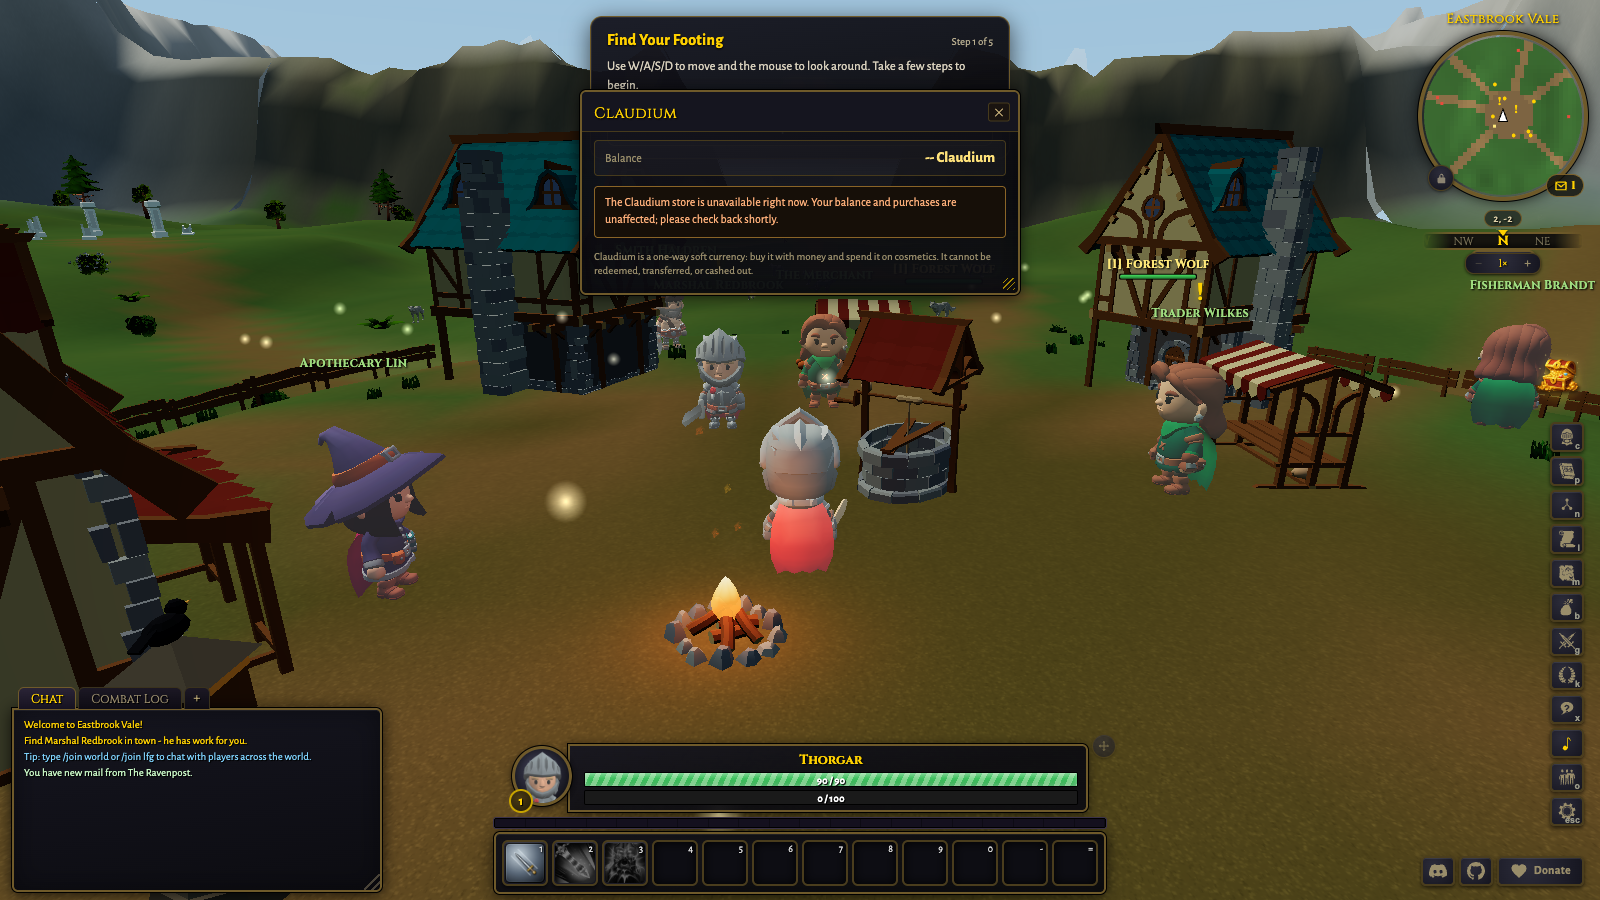
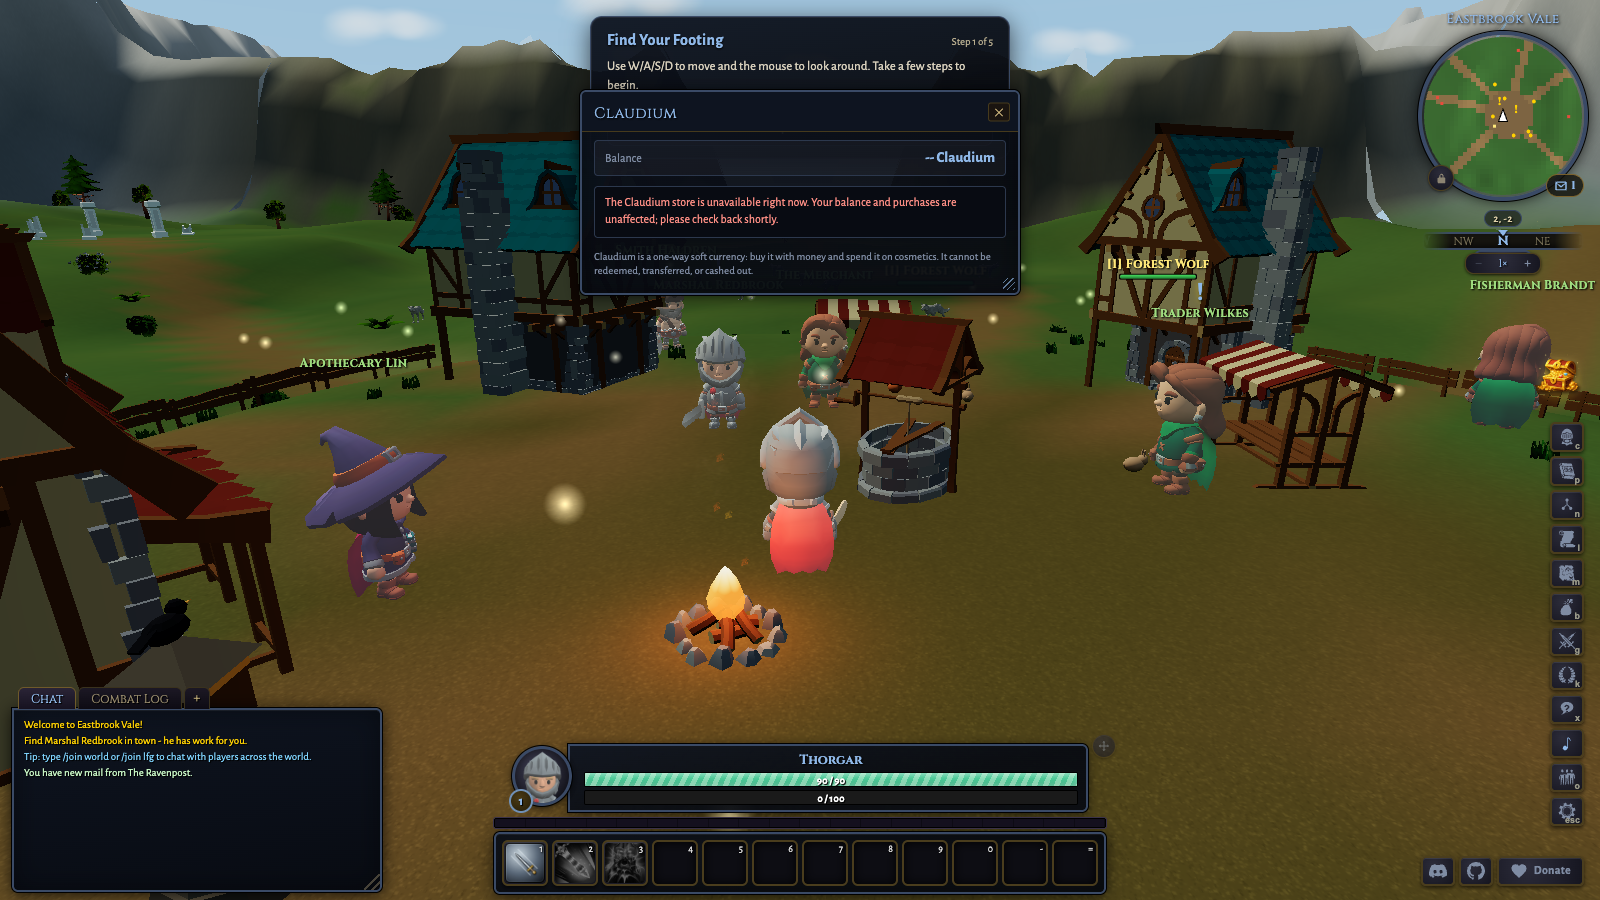
test(ui): claudium sweep shots + view tests

diff --git a/src/styles/components.css b/src/styles/components.css
@@ -1956,7 +1956,7 @@
     gap: 8px;
     padding: 8px 10px;
     border: 1px solid var(--color-border-default);
-    background: var(--color-bg-input);
+    background: var(--color-surface-inset);
     border-radius: var(--radius-sm);
   }
   .cl-balance-label {
@@ -2003,7 +2003,7 @@
     padding: 8px;
     border: 1px solid var(--color-border-default);
     border-radius: var(--radius-sm);
-    background: var(--color-bg-input);
+    background: var(--color-surface-inset);
     color: var(--color-text-light);
     font-size: 13px;
     cursor: var(--cursor-pointer);
@@ -2045,7 +2045,7 @@
     padding: 8px 10px;
     border: 1px solid var(--color-border-default);
     border-radius: var(--radius-sm);
-    background: var(--color-bg-input);
+    background: var(--color-surface-inset);
     color: var(--color-text-light);
     font-size: 13px;
     text-align: left;
@@ -2074,7 +2074,7 @@
     padding: 8px 10px;
     border: 1px solid var(--color-border-default);
     border-radius: var(--radius-sm);
-    background: var(--color-bg-input);
+    background: var(--color-surface-inset);
   }
   .cl-item-name {
     color: var(--color-text-light);
@@ -2118,7 +2118,7 @@
     padding: 8px;
     border: 1px solid var(--color-border-default);
     border-radius: var(--radius-sm);
-    background: var(--color-bg-input);
+    background: var(--color-surface-inset);
     color: var(--color-text-light);
     font-size: 13px;
     cursor: var(--cursor-pointer);
@@ -2142,7 +2142,7 @@
     padding: 12px;
     border: 1px solid var(--color-border-default);
     border-radius: var(--radius-sm);
-    background: var(--color-bg-input);
+    background: var(--color-surface-inset);
   }
   .cl-pay-amount {
     margin: 0;
@@ -2162,7 +2162,7 @@
     padding: 8px 10px;
     border: 1px solid var(--color-border-default);
     border-radius: var(--radius-sm);
-    background: var(--color-bg-dark);
+    background: var(--color-surface-well);
     color: var(--color-text-light);
     font-size: 12px;
     word-break: break-all;
@@ -2212,7 +2212,7 @@
     padding: 8px 10px;
     border: 1px solid var(--color-border-default);
     border-radius: var(--radius-sm);
-    background: var(--color-bg-dark);
+    background: var(--color-surface-well);
     color: var(--color-text-light);
     font-size: 13px;
   }

diff --git a/src/styles/tokens.css b/src/styles/tokens.css
@@ -82,6 +82,16 @@
        raw hex). Exact pre-existing value. */
     --color-quality-default: #fff;
 
+    /* Theme-adaptive surface overlays (used by the Claudium window and any panel
+       that needs an inset/sunken surface that reads on BOTH the dark presets and
+       the light Parchment preset). They are TRANSLUCENT on purpose: a faint white
+       lifts a surface off any panel colour, a faint black sinks a field well below
+       it, so the same token works on a dark OR a light panel without the theme
+       system having to recompute a per-preset opaque colour. Mirrors the repo-wide
+       #ffffffNN overlay convention, named so a painter carries no raw rgba. */
+    --color-surface-inset: rgba(255, 255, 255, 0.04);
+    --color-surface-well: rgba(0, 0, 0, 0.22);
+
     /* Empty paperdoll slot greys (char_window.ts uses these so the painter carries
        no raw hex): the muted "Empty" label and the dimmed placeholder-icon border.
        Exact pre-existing values. */

diff --git a/DESIGN_SWEEP.md b/DESIGN_SWEEP.md
@@ -20,23 +20,23 @@ severity: breaks-trust > inconsistent > polish. UI is the in-game window
 
 | Surface | Severity | Note |
 |---|---|---|
-| Gift card BUY / gift flow (denomination, recipient, message, scheduled delivery) | breaks-scope | the game UI only REDEEMS gift cards; there is no buy-a-gift flow. Issue + delivery live service-side only. |
-| Transaction history view | inconsistent | the SDK has history(); no UI renders it. |
-| Occasion gift-card artwork (birthday/holiday/generic) | polish | service delivery.ts renders ONE generic styled card; no occasion variants. |
-| Pay-address QR | inconsistent | native pay panel shows the address as text only; a QR would help wallet scanning. |
+| Gift card BUY / gift flow (denomination, recipient, message, scheduled delivery) | breaks-scope | DEFERRED (scoped follow-up, not built this sweep). The game UI only REDEEMS gift cards; there is no buy-a-gift flow. Issue + delivery live service-side only. |
+| Transaction history view | inconsistent | DEFERRED (scoped follow-up, not built this sweep). The SDK has history(); no UI renders it. |
+| Occasion gift-card artwork (birthday/holiday/generic) | polish | DEFERRED (scoped follow-up). service delivery.ts renders ONE generic styled card; no occasion variants. |
+| Pay-address QR | inconsistent | FALLBACK SHIPPED (QR DEFERRED). A hand-rolled client-side QR encoder (src/ui/qr.ts) was built and passed unit tests, but its output did not decode with a reference scanner (jsQR), so per the sweep brief it was removed rather than ship an unscannable code. The pay panel now renders the address as LARGE COPYABLE MONOSPACE (.cl-address) with a Copy button (8164d645d), which satisfies the scan-alternative requirement. A correct QR encoder is a scoped follow-up. |
 
 ## Gaps on existing screens
 
-| # | Screen | Issue | Severity |
-|---|---|---|---|
-| D1 | components.css .cl-* | hardcoded colors (#463a1c, #ffffff08, #ffe27a, #8a6427, #160f08, #ffb07a, ...) instead of design tokens | inconsistent |
-| D2 | Balance | no USD equivalent (peg legibility rule: show Claudium AND USD) | breaks-trust |
-| D3 | Native pay panel | run-on labels in the recorded frame (sendExactly crowding, split "60 WOC burned140 WOC to treasury" ran together); verify spacing/rows | inconsistent |
-| D4 | Tabs | Buy/Redeem tabs read as plain boxes in the recording; verify .cl-tab styling exists and reads as tabs | polish |
-| D5 | Native quote | no explicit "You pay X, you receive Y Claudium" review line before the confirm commit | breaks-trust |
-| D6 | Pending/confirming | after paste-signature confirm, is there a calm "waiting for confirmation" state, or dead air? verify | breaks-trust |
-| D7 | Store | prices show Claudium only; "not enough Claudium -> top up" path back to buy not present | inconsistent |
-| D8 | Themes | light+dark parity not verified across Claudium screens | inconsistent |
+| # | Screen | Issue | Severity | Status |
+|---|---|---|---|---|
+| D1 | components.css .cl-* | hardcoded colors (#463a1c, #ffffff08, #ffe27a, #8a6427, #160f08, #ffb07a, ...) instead of design tokens | inconsistent | FIXED ddaa70a37. Zero raw hex/rgba in the .cl-* block (grep-verified); all mapped to tokens (--color-border-default, --color-gold, --color-surface-inset/-well, --color-primary-glow, --color-text-*). |
+| D2 | Balance | no USD equivalent (peg legibility rule: show Claudium AND USD) | breaks-trust | FIXED 2638a99af. Balance, store rows, SKU rows, review line all show "(Claudium ($USD))" via claudiumToUsd + formatNumber; peg = service usdPerClaudium, fallback CLAUDIUM_USD_PEG = $0.01. |
+| D3 | Native pay panel | run-on labels in the recorded frame (sendExactly crowding, split "60 WOC burned140 WOC to treasury" ran together); verify spacing/rows | inconsistent | FIXED 2638a99af. Each field is its own .cl-field row (label block + value block); the split is one clean line "X WOC burned, Y WOC to treasury" on its own labelled row. |
+| D4 | Tabs | Buy/Redeem tabs read as plain boxes in the recording; verify .cl-tab styling exists and reads as tabs | polish | FIXED 2638a99af (styling) + 0a7567c7b (role=tablist/tab/tabpanel, aria-selected, roving tabindex). |
+| D5 | Native quote | no explicit "You pay X, you receive Y Claudium" review line before the confirm commit | breaks-trust | FIXED 2638a99af. Explicit Review row: "You pay X WOC, you receive Y Claudium ($Z)." before Confirm. |
+| D6 | Pending/confirming | after paste-signature confirm, is there a calm "waiting for confirmation" state, or dead air? verify | breaks-trust | FIXED 2638a99af. Confirm shows a calm pending line "Waiting for on-chain confirmation..."; not_finalized shows a reassuring retry; expired/oracle offers a fresh quote. All plain-language, no raw reason codes. |
+| D7 | Store | prices show Claudium only; "not enough Claudium -> top up" path back to buy not present | inconsistent | FIXED 0a7567c7b. Unaffordable items show "Not enough Claudium" + a "Top up" button that jumps to the buy tab and focuses the rail picker. |
+| D8 | Themes | light+dark parity not verified across Claudium screens | inconsistent | FIXED ddaa70a37 (tokenize) + 8164d645d (theme-adaptive surface tokens). Verified in Midnight (dark) and Parchment (light) screenshots; the dark-only --color-bg-input assumption was replaced with theme-adaptive --color-surface-inset / --color-surface-well. |
 
 ## Fix priority (money-clarity + trust first)
 
@@ -45,6 +45,16 @@ severity: breaks-trust > inconsistent > polish. UI is the in-game window
 3. D7 top-up path; D4 tab polish; QR affordance (polish).
 4. Missing screens (gift-buy, history, occasion art): flagged as scoped follow-ups; the game UI ships redeem + buy + store now.
 
+## Evidence (before/after screenshots)
+
+`docs/screenshots/claudium/`, captured in BOTH a dark (Midnight) and light (Parchment) theme:
+- `claudium_buy_<theme>.png` - buy tab, rail picker, SKU/amount ladder with USD.
+- `claudium_pay_panel_<theme>.png` - native WOC pay panel: review line, per-row fields, one-line split, countdown, large copyable address + Copy.
+- `claudium_pending_<theme>.png` - calm "Waiting for on-chain confirmation" pending state, plus the store top-up prompt below.
+- `claudium_redeem_<theme>.png` - redeem tab (tabs read as tabs).
+- `claudium_store_topup_<theme>.png` - cosmetic store with the "Not enough Claudium / Top up" affordance.
+- `claudium_service_off.png` - the graceful-degradation disabled state (dark).
+
 ## Honest note
 
-The gift-card BUY flow and transaction history are genuinely absent from the game UI, not merely unpolished. This sweep polishes what exists and flags those as the next build, rather than pretending they are present.
+The gift-card BUY flow and transaction history are genuinely absent from the game UI, not merely unpolished, and stay DEFERRED as scoped follow-ups (this sweep did not stub them). The pay QR is a fourth deferred item: an encoder was built but did not decode cleanly, so the panel ships the sanctioned copyable-monospace fallback instead. This sweep fixed every gap on the EXISTING surfaces (D1-D8) and flags those four as the next build.
